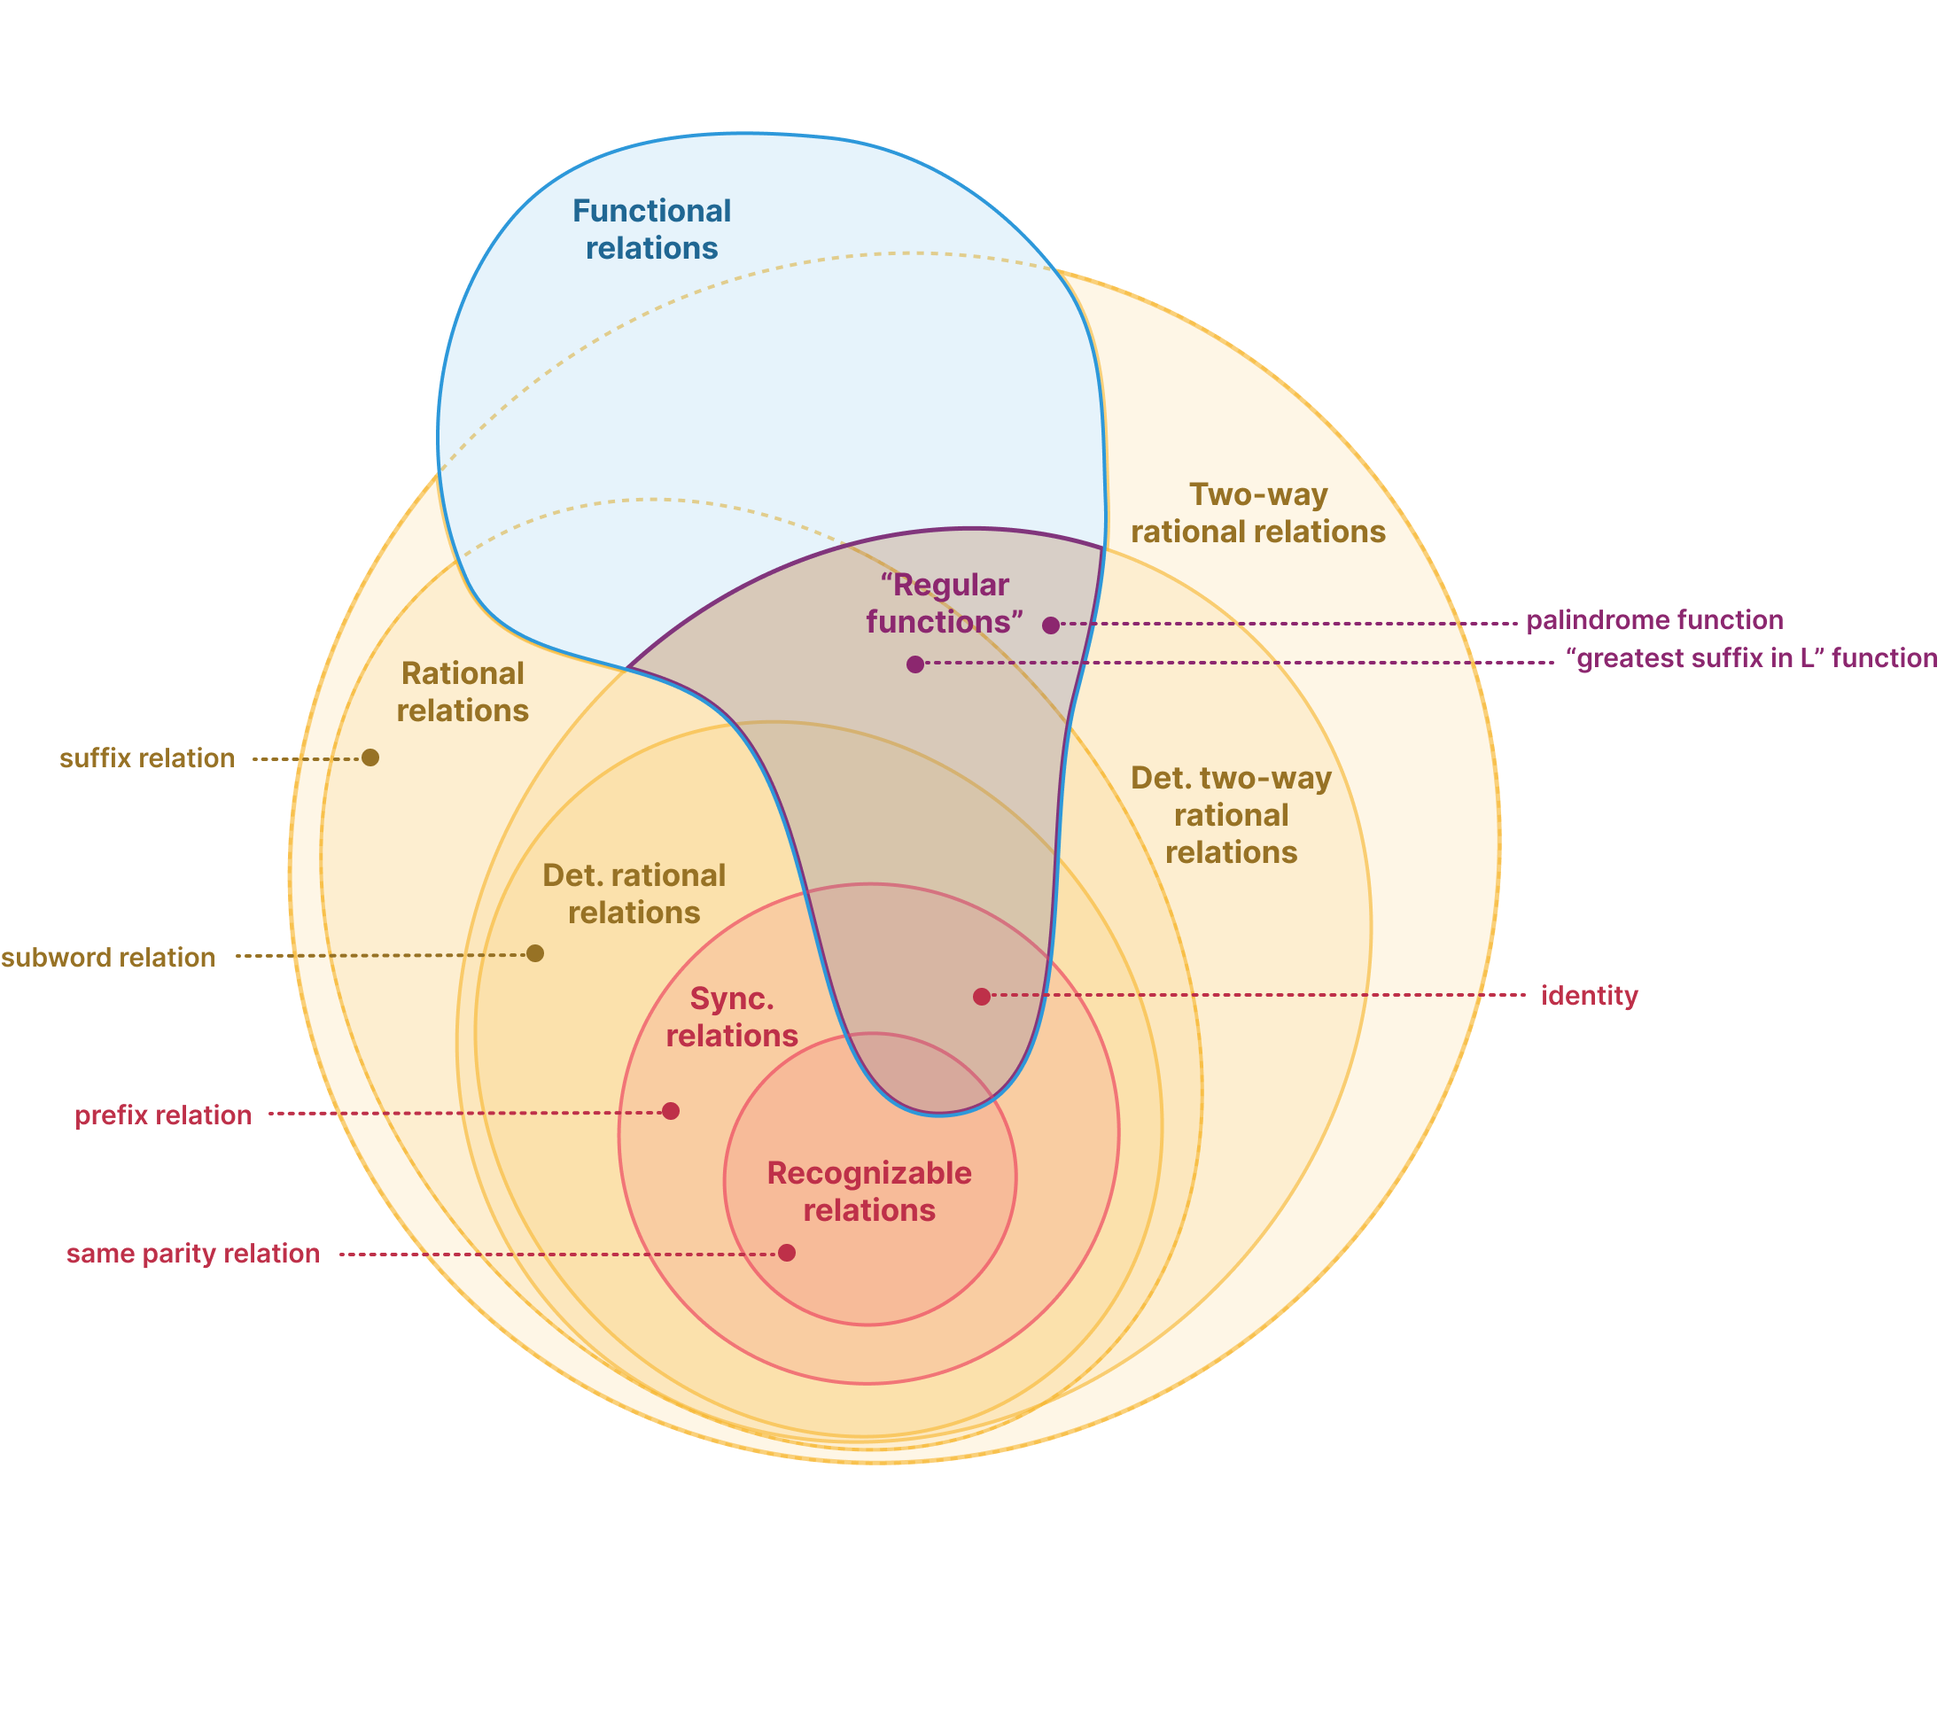
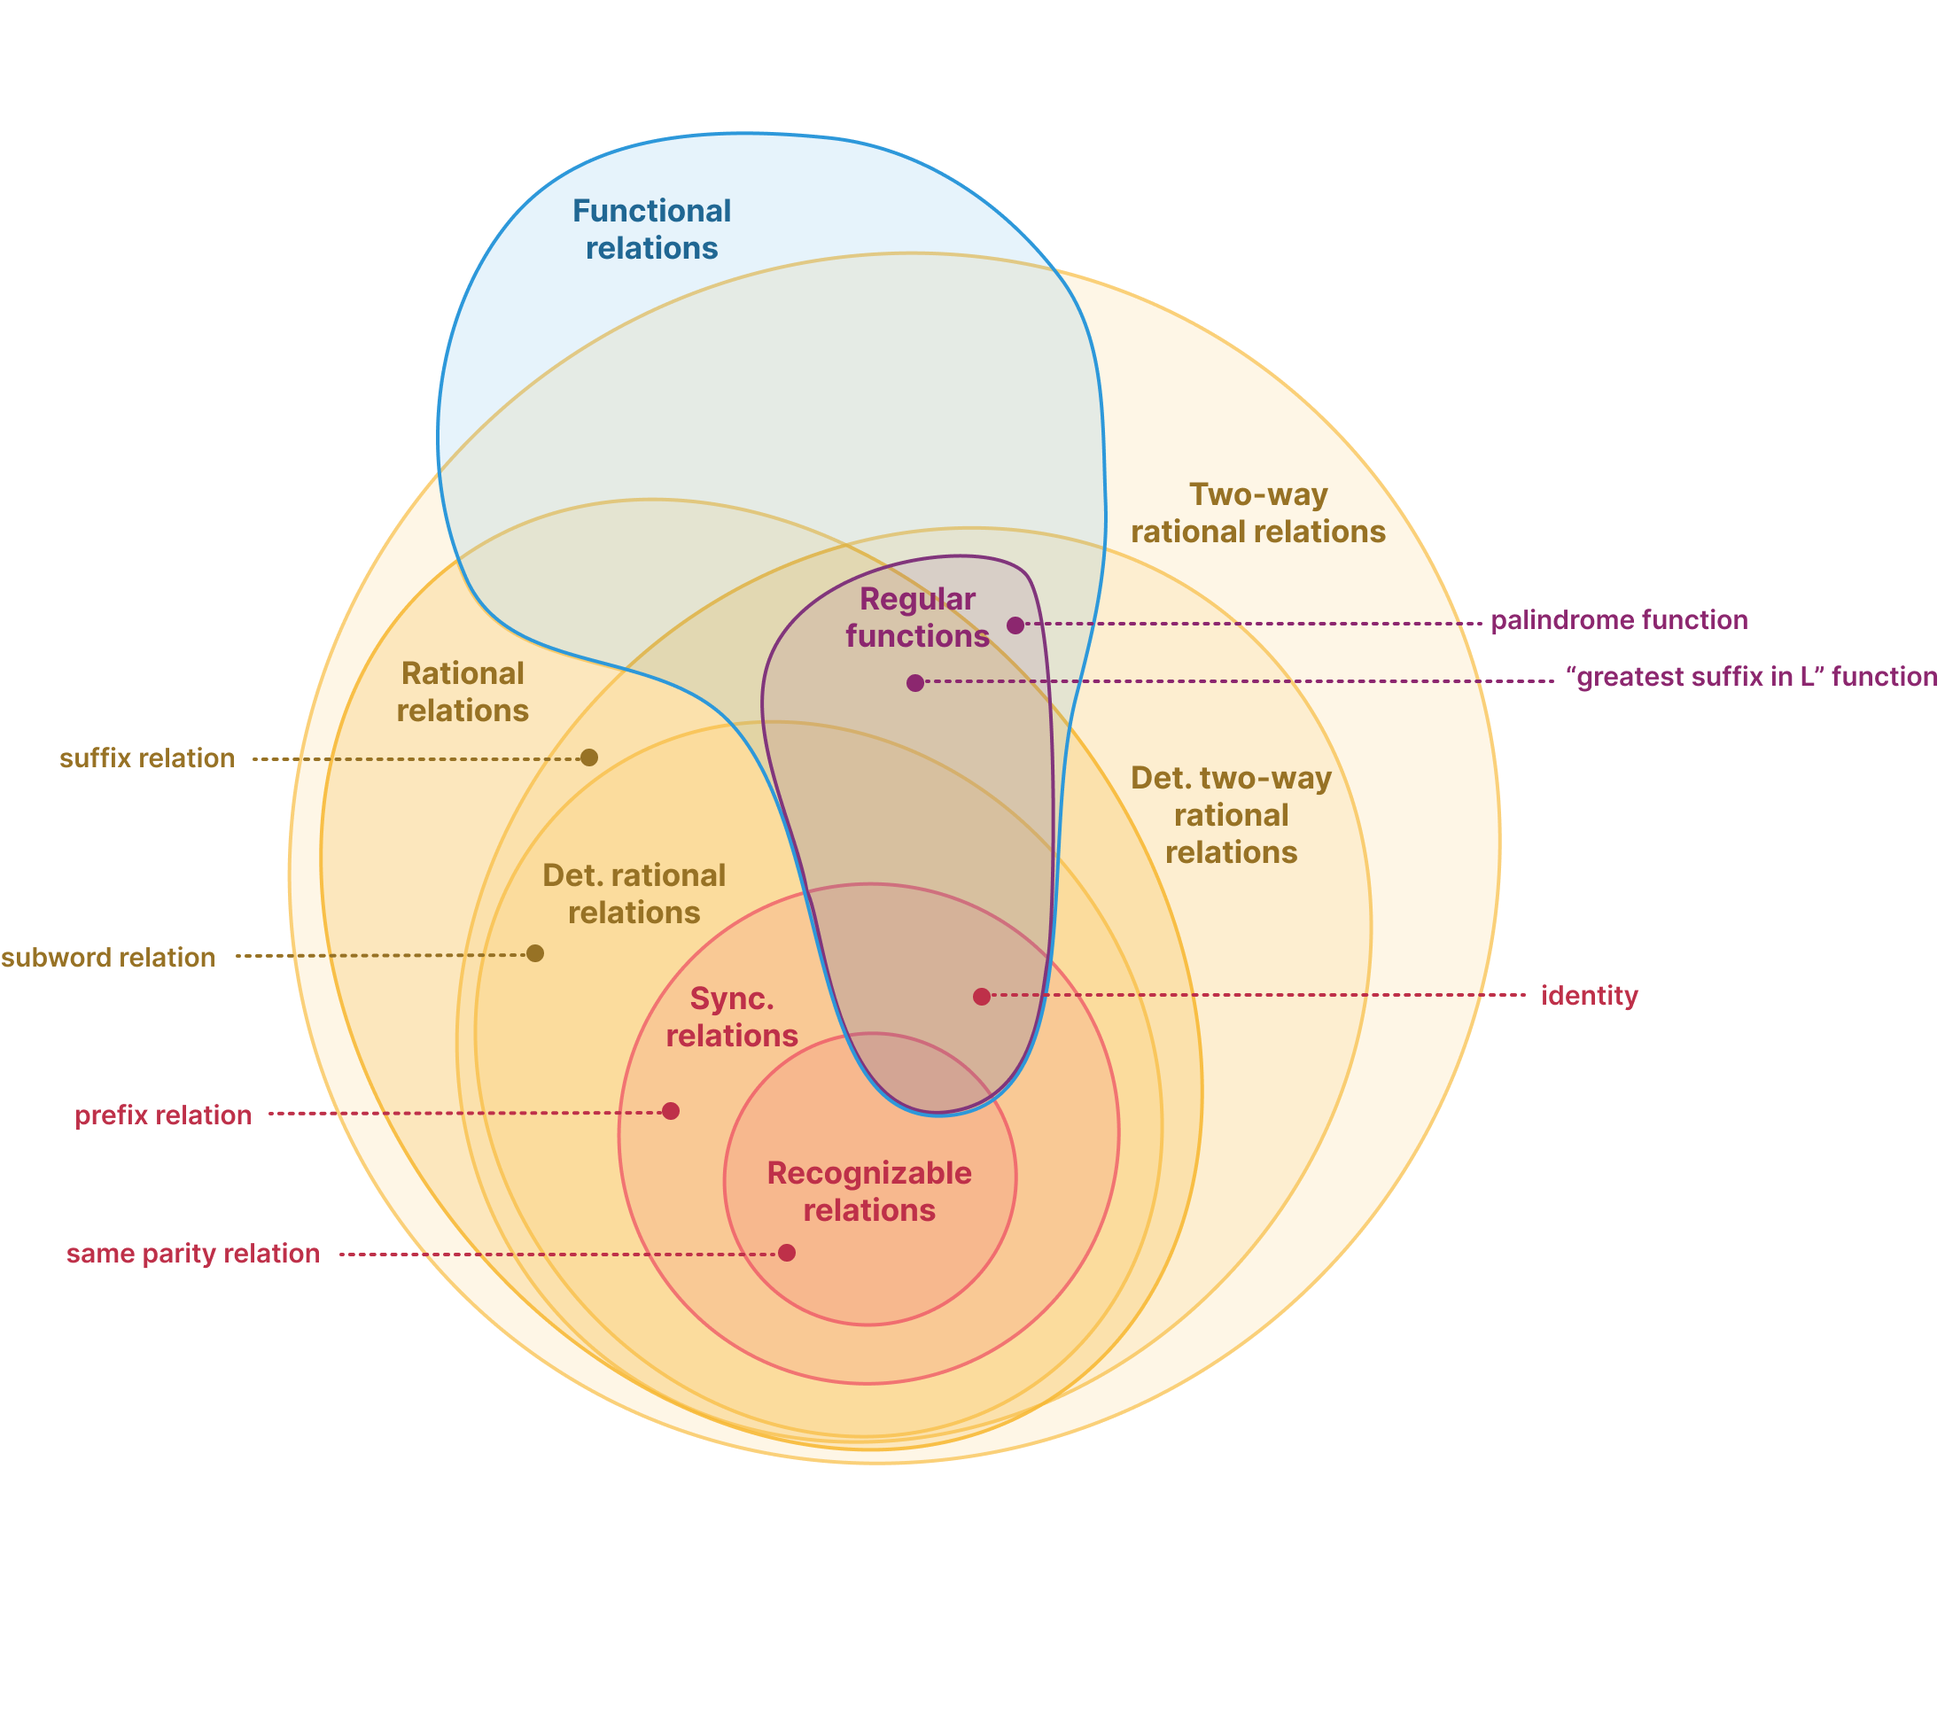
minor §7

diff --git a/parts/preliminaries-automatic-structures/sec-relations.tex b/parts/preliminaries-automatic-structures/sec-relations.tex
@@ -26,8 +26,8 @@ models can be strictly more succinct.
 	\caption{
 		\AP\label{fig:landscape-rationality-relations}
 		The ``landscape of rationality'' for binary relations.
-		Dashed regions are empty.
-		\todo{UPDATE: SUFFIX RELATION IS Deterministic TWO-WAY AND RATIONAL.}
+		See also \Cref{fig:hierarchy-rational-relations,fig:hierarchy-functional-relations}.
+		\todo{make it clicakble}
 	}
 \end{figure*}
 These equivalences explain why the terms \emph{recognizable language}---meaning implicitly
@@ -70,8 +70,11 @@ when non-determinism is allowed and the model is expressive enough, a transducer
 of relations defined by these two families of models is often unclear.%
 \footnote{To witness this claim, I want to emphasize that I (unwillingly) included an erroneous 
 version of \Cref{fig:landscape-rationality-relations} in \cite{Morvan2025Algebras}.
-Despite multiple reviews, the mistake was never spotted by anyone. \todo{ IS IT?}}
-For instance, we will see in \todo{addref} see that "deterministic two-way multitape automata"
+Despite multiple reviews, the mistakes---the "suffix relation" was misplace and, more
+importantly, the "regular functions@@bojan" were claimed to correspond to
+the intersection of "rational relations" with "deterministic two-way rational relations"---were never spotted by anyone.}
+For instance, we will see in \Cref{sec:prelim-transductions}
+that "deterministic two-way multitape automata"
 and "deterministic two-way transducers" are semantically different: the distinction
 between \emph{multitape automata} and \emph{transducers} is hence of capital importance.
 
@@ -478,8 +481,6 @@ the class of "recognizable relations".
 	"iff" $u \in K$ and $v\in L$.
 \end{proof}
 
-\todo{ add examples lexicographic \& Gray.}
-
 As often in automata theory, the pumping lemma provides a useful tool to prove
 non-regularity, or rather here non-automaticity.
 For instance, the "suffix relation" is not "automatic@@struct": otherwise,
@@ -525,7 +526,7 @@ Despite being somewhat expressive, "automatic relations" retain some decidabilit
 \begin{proposition}[{\cite[Theorem 1]{BarceloHongLeLinNiskanen2019MonadicDecomposability}, see also \cite[Corollary 2.9]{BergstrasserGanardiLinZetzsche2022RamseyQuantifiers}}]
 	\!\footnote{Decidability, first in "3ExpTime" and then
 	in "2ExpTime" was already known in the 1970s as a consequence
-	of \todo{addref-deterministic-rational-relations}.
+	of \Cref{prop:synchronous-implies-detrat}.
 	An "ExpTime" upper bound was incorrectly claimed in \cite[Table~1]{CartonChoffrutGrigorieff2006DecisionProblems},
 	and proved wrong in \cite[\S~4.1]{LodingSpinrath2019DecisionProblems}.
 	Löding and Spinrath noticed that the previous algorithm was
@@ -585,8 +586,9 @@ The semantics of the "multitape automaton"
 can be defined as the image by $\projWord$ of its semantics when seen as a
 classical automaton.%
 \footnote[][-15em]{These automata are often simply called ``$k$-tape automata''. 
-They are rarely referred to as ``asynchronous automata'',
-"eg" in \cite[\S~3]{CarayolLoding2011Uniformization}.
+They are sometimes referred to as ``asynchronous automata'',
+"eg" in \cite[\S~3]{CarayolLoding2011Uniformization} or
+\cite[\S~3.1.2.2, p.~88]{Pelecq1997Isomorphismes}.
 We do \emph{not} use this terminology following a suggestion
 of Anca Muscholl to avoid the confusion with Zielonka's ``asynchronous automata'' used in 
 concurrency \cite[\S~4]{Zielonka1987AsynchronousAutomata}.}
@@ -934,7 +936,8 @@ Note that neither $\projTape$ nor $\projWord$ are injective, but putting both in
 yield an injective map.
 The word $\projTape(w)$ describes, starting from $\projWord(w)$, which 
 head movements have to be done to obtain a word of $(\Sigma_1 \convolAlpha \cdots \Sigma_k)^*$, which represent possible runs of a "multitape automaton".%
-\todo{this is similar to origin semantics}
+\footnote{The information $\projTape$ is not unlike what is called
+``origin information'' for transducers \cite{Bojanczyk2014TransducersOriginInformation}.}
 
 Given a "regular language" $T$ over the alphabet $\psetp{\lBrack 1,k\rBrack}$,
 a \AP""$T$-multitape automaton"" is a "multitape automaton" over $\Sigma_1,\hdots,\Sigma_k$
@@ -1135,7 +1138,7 @@ Neither model are closed under composition \cite[Theorem~5]{CartonExibardSerre20
 		Predicates \textsf{bool}, \textsf{incl} and \textsf{equiv} indicate
 		whether the class is closed under Boolean operators, has decidable
 		"inclusion problem@@rel" and "equivalence problem@@rel", respectively.
-		\todo{bool for "two-way rational@@rel".}
+		\todo{bool for "two-way rational@@rel"?}
 	}
 \end{figure}
 
@@ -1149,10 +1152,15 @@ showed that this class is not closed under complementation
 \cite[Theorem~1]{CartonExibardSerre2017TwoWayTwoTapeAutomata}.
 
 \subsection{The Surprisingly Strange World of Transducers}
+\label{sec:prelim-transductions}
 
-\todo{blabla}
+Recall that, by construction, "multitape automata" have access to
+a pair of words $\tup{u,v}$ and then can decide whether 
+this pair should be accepted or not. 
+Transducers differ in that they have access to $u$ and
+can potentially produce, from $u$, the word $v$.
 
-\AP""Non-deterministic one-way transducers"",
+Formally, \AP""non-deterministic one-way transducers"",
 or \reintro{transducers} for short, are defined as finite-state automaton, but
 their transition relation is a subset of
 \[
@@ -1162,7 +1170,10 @@ their transition relation is a subset of
 	\times \underbrace{Q.\!}_{\text{target state}}
 \]
 We will also assume that the input word has markers at its extremities.
-This model is quite clearly equivalent to the one of "multitape automata".
+This model is quite clearly equivalent to the one of "multitape automata".%
+\footnote{This is to ensure this equivalence that we allow
+a "transducer" to produce an output on $\varepsilon$.
+This feature is usually not allowed is most definitions of transducers.}
 
 However, because we think of "transducers" and "multitape automata" differently,
 the notion of "deterministic transducer" differs from the one of
@@ -1224,10 +1235,18 @@ In other words non-determinism does not increase the expressiveness of two-way m
 As a consequence, the hierarchy of "functional relations" is surprisingly more
 linearly ordered than expected, as depicted in \Cref{fig:hierarchy-functional-relations}.
 
+Note however that the "equivalence problem" remains undecidable for (non-functional)
+"two-way transductions" because the class includes all "rational relations".
+However, the problem becomes decidable---and even "PSpace"---when one wants to
+check ``origin equivalence'', which is a restricted form of equivalence:
+informally not only we want the transducers to describe the same relation, but
+we also require for the outputs to be produced in the same way \cite[Theorem~1]{BoseMuschollPuppisPenelle2018OriginEquivalence}.%
+\footnote{This ``origin information'' is not unlike the function
+$\projTape$ introduced earlier for "multitape automata".}
+
 \begin{figure}	
 	\centering
-	\hspace{-1.2cm}
-	\begin{tikzpicture}[scale=0.9]
+	\begin{tikzpicture}[scale=.95]
 		\tikzset{
 			every node/.style = {
 				text width=5cm,
@@ -1242,7 +1261,7 @@ linearly ordered than expected, as depicted in \Cref{fig:hierarchy-functional-re
 			\textsf{\footnotesize
 			\textcolor{cGreen}{incl}\esp
 			\textcolor{cGreen}{equiv}}};
-		\node at (-4.5, 3) (faut)
+		\node[text width=3cm] at (-4.5, 3) (faut)
 			{\textsc{"fun\al"\\"automatic rel°"}\\
 			\textsf{\footnotesize
 			\textcolor{cGreen}{incl}\esp
@@ -1252,7 +1271,7 @@ linearly ordered than expected, as depicted in \Cref{fig:hierarchy-functional-re
 			\textsf{\footnotesize
 			\textcolor{cGreen}{incl}\esp
 			\textcolor{cGreen}{equiv}}};
-		\node at (4.5, 3) (dtrans)
+		\node[text width=3cm] at (4.5, 3) (dtrans)
 			{\textsc{"determinstic\\transductions"}\\
 			\textsf{\footnotesize
 			\textcolor{cGreen}{incl}\esp
@@ -1299,11 +1318,12 @@ linearly ordered than expected, as depicted in \Cref{fig:hierarchy-functional-re
 			(regfun) edge (fd2rat) edge (polyreg)
 			(fd2rat) edge (f2rat);
 	\end{tikzpicture}
-	\hrule
 	\caption{
 		\AP\label{fig:hierarchy-functional-relations}
 		The hierarchy of "functional relations". Arrows denote \emph{strict} inclusions
 		between classes of relations.
+		``"Functional@@rel" \emph{foo}'' denotes the intersection of the class
+		\emph{foo} with the class of "functional relations".
 		Predicates \textsf{incl} and \textsf{equiv} indicate
 		whether the class has decidable
 		"inclusion problem@@rel" and "equivalence problem@@rel", respectively.
@@ -1313,10 +1333,6 @@ linearly ordered than expected, as depicted in \Cref{fig:hierarchy-functional-re
 The "equivalence problem@@rel" of "regular functions"
 was shown to be decidable by Gurari \cite[Theorem~1]{Gurari1982Equivalence}
 for "regular functions". Note that for the subclass of functional "rational relations", this result was proven one decade earlier, by Schützenberger in 1975---see "eg" \cite[Corollary~IV.1.3]{Berstel1979Transductions}.
-
-\todo{Mention that if class is effectively closed under union, then inclusion reduces
-to functionality.}
-\todo{Add closure under composition for the different hierarchies.}
 
 \paragraph*{Polyregular functions.}
 "Regular functions@@bojan" all have a linear growth.%
@@ -1338,6 +1354,15 @@ the end of the word.
 However, the decidability of the equivalence problem for this class remains widely open
 \cite[\S~8]{Bojanczyk2022Transducers}.
 
+We represent the hierarchy in \Cref{fig:hierarchy-functional-relations}.
+Note that some classes are defined semantically and admit no machine-characterization:
+for instance, ``functional two-way rational relations'' are the intersection
+of "functional relations" with  "two-way rational relations".
+Given a "two-way rational relation", it is undecidable whether the relation it
+"recognizes" is "functional@@rel".%
+\footnote{This can be proven by reduction from the inclusion of "functional two-way rational relation" since a function $f$ is included in another function $g$
+"iff" $f\cup g$ is "functional@@rel". This reduction works for any class that
+is effectively closed under union.}
 We refer the reader to
 Gauwin's habilitation \cite{Gauwin2020Transductions}, and in particular
 to the splendid \cite[Figure~2.1, p.~16]{Gauwin2020Transductions}%
@@ -1350,5 +1375,3 @@ See also Douéneau's Ph.D. thesis \cite[\S~1]{Douéneau2023PhD} for variations o
 Lastly, let us note that most classes of relations usually become quite ``simple'' when restricted 
 to a unary alphabet, see "eg" \cite[Theorem~1]{ChoffrutGuillon2014UnaryTransducers} for a simple
 characterization of "deterministic two-way rational relations" over a unary alphabet.
-
-\todo{ update figure}

diff --git a/parts/preliminaries-automatic-structures/sec-automatic-structures.tex b/parts/preliminaries-automatic-structures/sec-automatic-structures.tex
@@ -2,7 +2,28 @@
 \label{sec:preliminaries-automatic-structures-automatic-structures}
 
 \subsection{Definitions}
-\todo{blabla}
+
+"Automatic structures" are a subclass of all "relational structures".
+While some of them can be infinite, they are all finitely describable, by
+automata. We will see that, this way, some problems on "finite structures"
+remain decidable on this larger class of "automatic structures".
+
+This notion has a remarkably eventful history:
+it was introduced by Hodgson in his Ph.D. thesis in 1976
+\cite{Hodgson1976PhD}\footnote{Unfortunately the manuscript is not available online.
+See \cite{Hodgson1983Decidabilite} for the related journal article.}, but
+the notion went largely unnoticed. The notion was rediscovered for groups
+in the late 1980s \cite{Epstein1992Word}. 
+Independently, Shapiro in 1992 \cite{Shapiro1992AutomaticStructures},
+Khoussainov and Nerode in 1995 \cite{KhoussainovNerode1995AutomaticPresentations}
+and Pélecq in his Ph.D. thesis from 1997 reintroduced the notion of "automatic structures"%
+\footnote{What we call "automatic structures"
+correspond to ``synchronous automatic structures'' and ``structures automatiques synchrones'' in Shapiro's paper and Pélecq's thesis, respectively.
+Pélecq gives credit for the definition to his advisor Géraud Sénizergues.
+All three work by Shapiro, Khoussainov \& Nerode and Pélecq
+claim to generalize the notion of "automatic groups" from \cite{Epstein1992Word}.}
+\cite[\S~3.1.3, p.~91]{Pelecq1997Isomorphismes}.
+
 
 We fix a finite "relational signature" $\sigma$.
 An \AP""automatic presentation $\+A$ of a $\sigma$-structure"" consists of:
@@ -234,7 +255,8 @@ their model checking problem remains decidable.
 
 \begin{proposition}[{""Hodgson's theorem""}]
 	\!\footnote{Decidability was originally proven in \cite[Théorème~3.5]{Hodgson1983Decidabilite}.
-	The lower bound is sometimes claimed to be true in the literature, but we never found a proper, or even sketch of proof.}
+	A slightly weaker form was independently reproved by Pélecq in his thesis
+	\cite[Théorème~61, p.~107]{Pelecq1997Isomorphismes}.}
 	%
 	\AP\label{prop:first-order-model-checking-automatic-structures}
 	"First-order model checking of automatic structures" is decidable,
@@ -498,6 +520,14 @@ the "isomorphism problem" remains open.
 \begin{openproblem}
 	Is the "isomorphism problem" decidable for "automatic groups"?
 \end{openproblem}
+
+\paragraph*{Automatic Semigroups.}
+Following the success of "automatic groups",
+"automatic semigroups" have been studied by Campbell,
+Robertson, Ru\v{s}kuc and Thomas, who showed
+that any finitely generated subsemigroup of a free semigroup
+is "automatic@@struct"
+\cite[Theorem~8.1]{CampbellRobertsonRuskucThomas2001AutomaticSemigroups}.
 
 \paragraph*{Automatic Rings and Fields.}
 Richer algebraic structures, like rings or fields actually often fail to be captured by

diff --git a/parts/preliminaries-automatic-structures/sec-logic.tex b/parts/preliminaries-automatic-structures/sec-logic.tex
@@ -299,7 +299,6 @@ makes no difference whatsoever since both models are "first-order interpretable"
 	For this, it suffices to guess a word $v$ of the same length as $u$, which alternates
 	zeroes and ones, and then to check that the first letter $v$ is distinct from
 	its last letter.
-	\todo{figure}
 
 	Given a "synchronous automaton" $\+A$ recognizing $\+R \subseteq (\Sigma^*)^k$,
 	we want to build a "first-order formula" $\phi_{\+A}$ over $\signatureSynchronous{\Sigma}$
